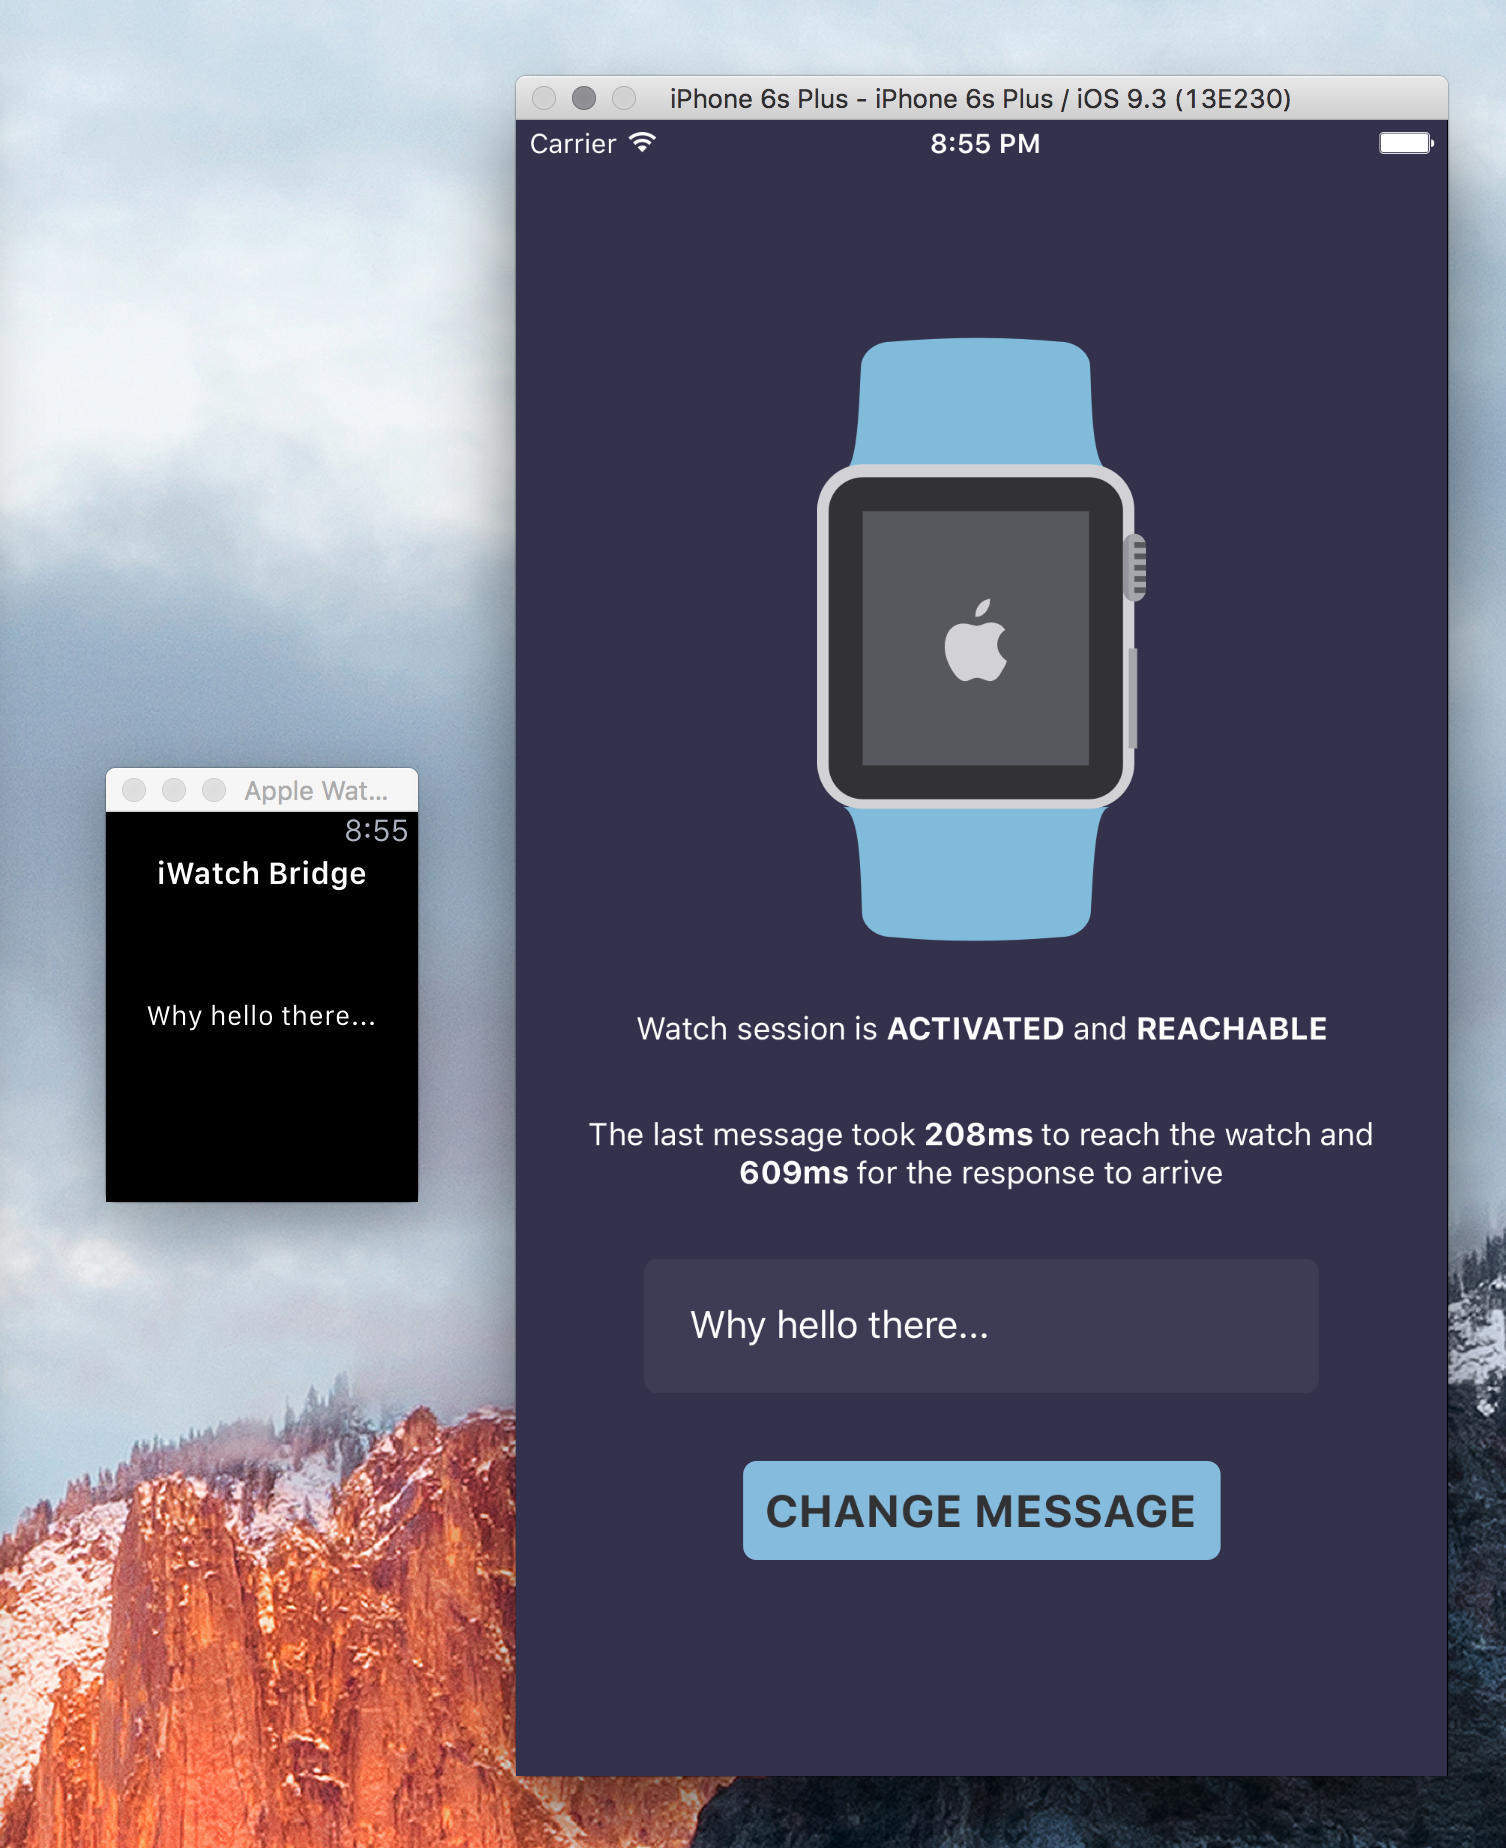
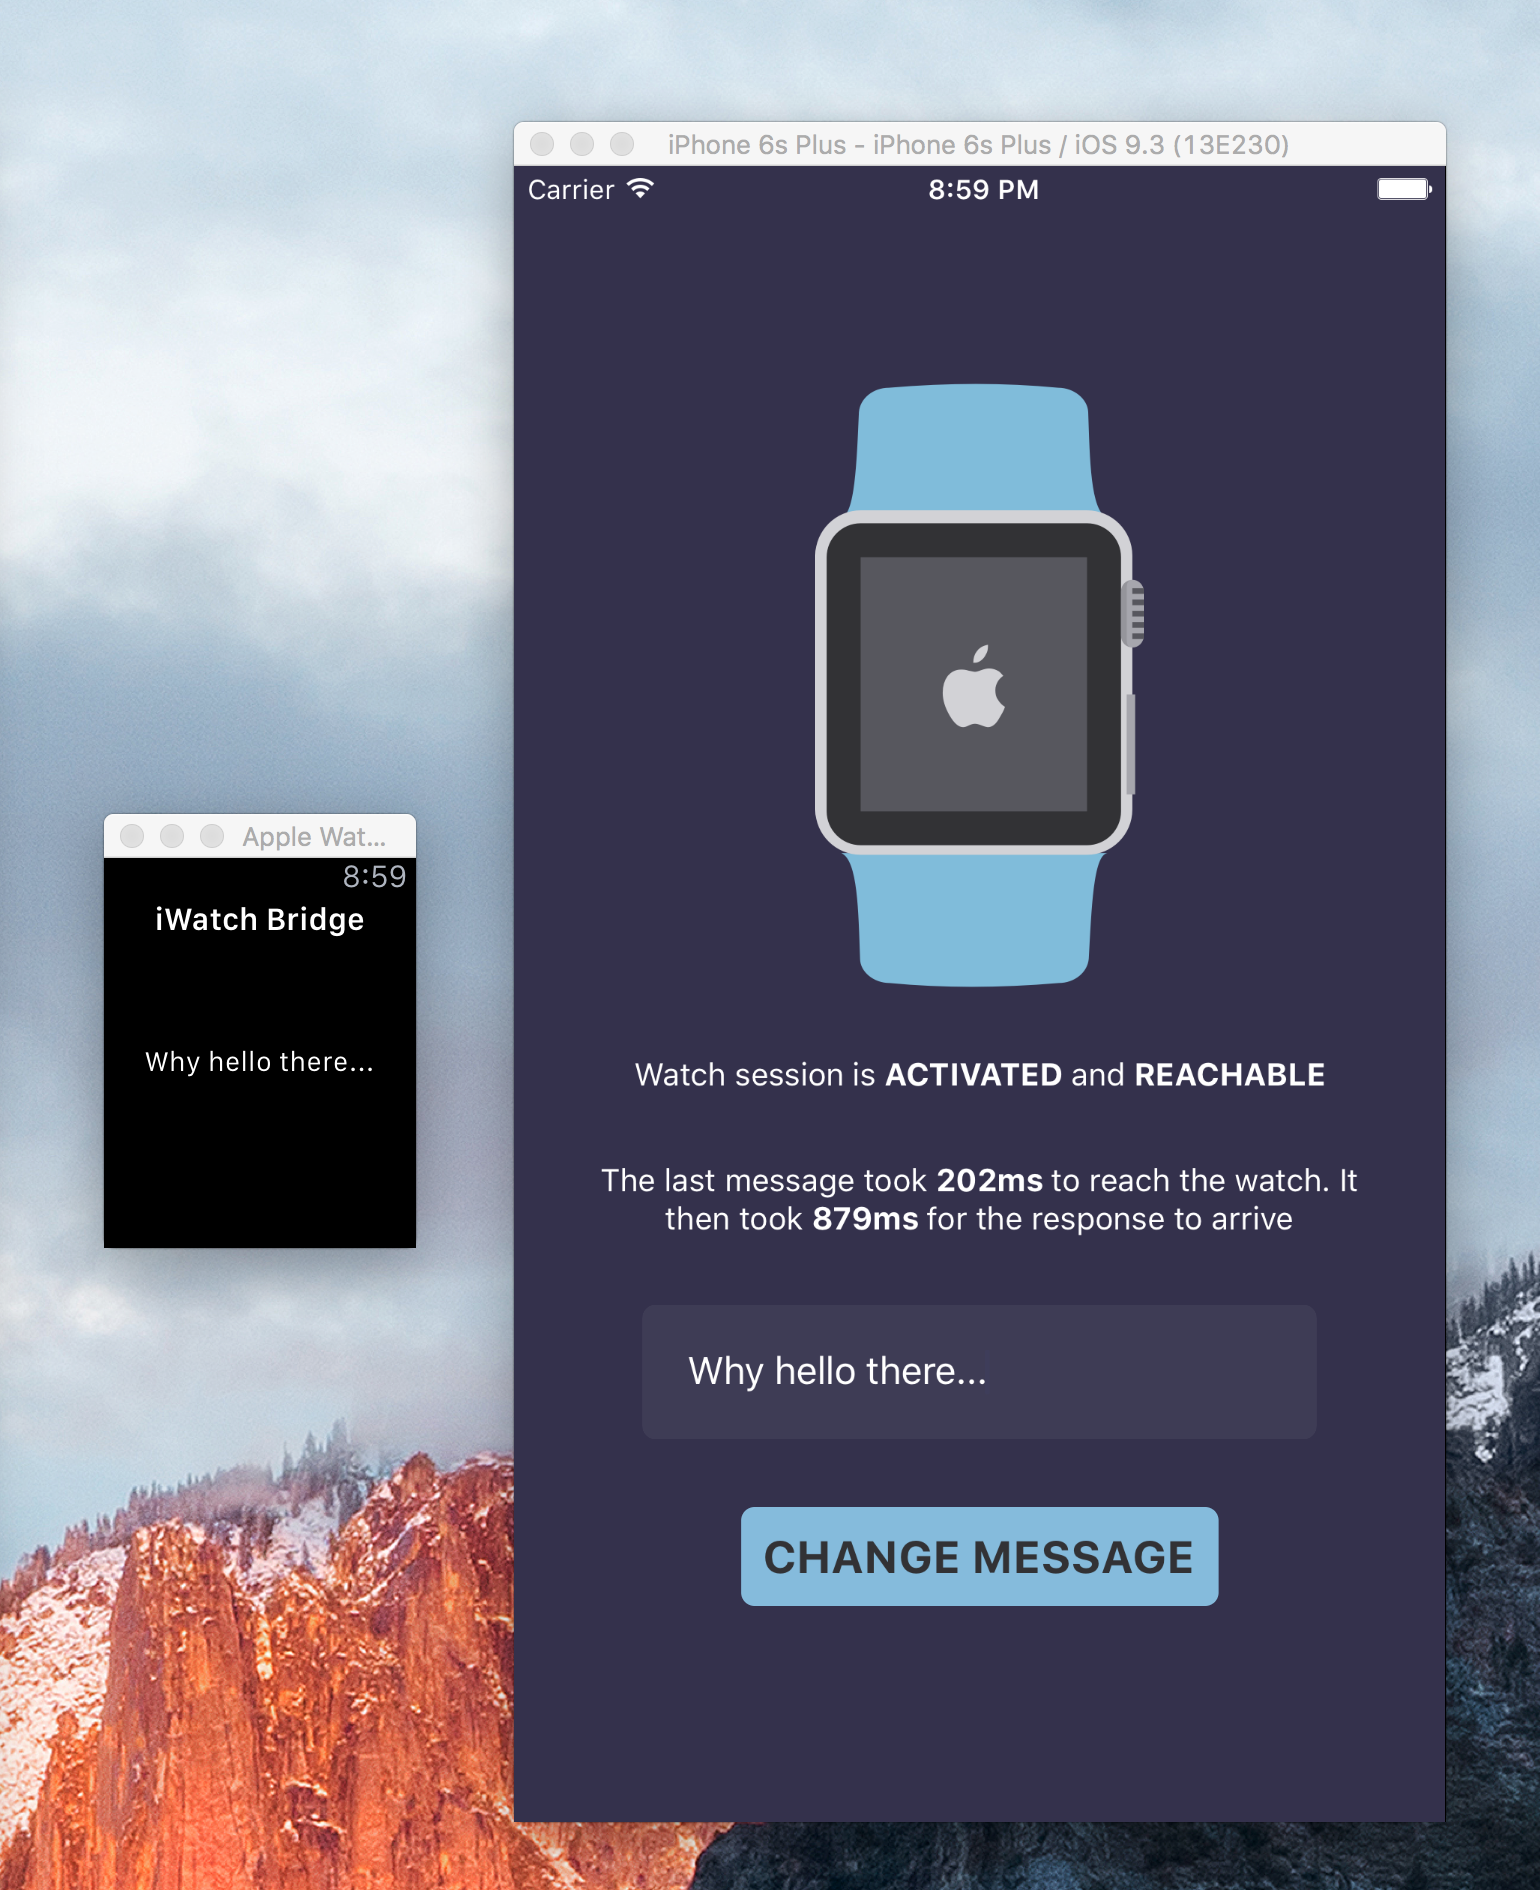
keyboard hide/show events working

diff --git a/index.ios.js b/index.ios.js
@@ -15,7 +15,7 @@ import React, {
   Dimensions,
   Image,
   LayoutAnimation,
-  NativeAppEventEmitter
+  DeviceEventEmitter
 } from 'react-native'
 
 import * as watchBridge from './src/WatchBridge.js'
@@ -32,25 +32,26 @@ class buff extends Component {
       messages:   [],
       reachable:  false,
       loading:    false,
+      text:       '',
       watchState: watchBridge.WatchState.Inactive
     }
   }
 
   keyboardWillHide () {
-    this.keyboardLayout()
+    this.configureNextAnimation()
     this.setState({spacerStyle: {height: 0}})
   }
 
   keyboardWillShow (e) {
     const keyboardHeight = e.endCoordinates.height
-    this.keyboardLayout()
+    this.configureNextAnimation()
     this.setState({spacerStyle: {height: keyboardHeight}})
   }
 
   listenToKeyboard () {
     const subscriptions                = [
-      NativeAppEventEmitter.addListener(EVENT_KEYBOARD_SHOW, ::this.keyboardWillShow),
-      NativeAppEventEmitter.addListener(EVENT_KEYBOARD_HIDE, ::this.keyboardWillHide)
+      DeviceEventEmitter.addListener(EVENT_KEYBOARD_SHOW, ::this.keyboardWillShow),
+      DeviceEventEmitter.addListener(EVENT_KEYBOARD_HIDE, ::this.keyboardWillHide)
     ]
     this.unsubscribeFromKeyboardEvents = () => subscriptions.forEach(fn => fn())
   }
@@ -73,22 +74,24 @@ class buff extends Component {
   }
 
   sendMessage () {
-    const timestamp = new Date().getTime()
-    const text      = this.state.text
-    this.configureNextAnimation()
-    this.setState({loading: true, timeTakenToReachWatch: null, timeTakenToReply: null})
-    watchBridge.sendMessage({text, timestamp}, (err, resp) => {
-      if (!err) {
-        console.log('response received', resp)
-        const timeTakenToReachWatch = resp.elapsed
-        const timeTakenToReply      = new Date().getTime() - parseInt(resp.timestamp)
-        this.configureNextAnimation()
-        this.setState({timeTakenToReachWatch, timeTakenToReply, loading: false})
-      }
-      else {
-        console.error('error sending message to watch', err)
-      }
-    })
+    const text = this.state.text
+    if (text.trim().length) {
+      const timestamp = new Date().getTime()
+      this.configureNextAnimation()
+      this.setState({loading: true, timeTakenToReachWatch: null, timeTakenToReply: null})
+      watchBridge.sendMessage({text, timestamp}, (err, resp) => {
+        if (!err) {
+          console.log('response received', resp)
+          const timeTakenToReachWatch = resp.elapsed
+          const timeTakenToReply      = new Date().getTime() - parseInt(resp.timestamp)
+          this.configureNextAnimation()
+          this.setState({timeTakenToReachWatch, timeTakenToReply, loading: false})
+        }
+        else {
+          console.error('error sending message to watch', err)
+        }
+      })
+    }
   }
 
   receiveWatchReachability (err, reachable) {
@@ -122,15 +125,18 @@ class buff extends Component {
           style={{width: 146, height: 269, marginBottom: ROW_MARGIN}}
           source={{uri: 'Watch'}}
         />
-        <Text style={styles.reachability}>
-          Watch session is <Text style={styles.boldText}>{this.state.watchState.toUpperCase()}</Text> and <Text
-          style={styles.boldText}>{this.state.reachable ? 'REACHABLE' : 'UNREACHABLE'}</Text>
-        </Text>
-        {hasResponse ? <Text style={styles.reachability}>
-          The last message took <Text style={styles.boldText}>{timeTakenToReachWatch + 'ms '}</Text>
-          to reach the watch and <Text style={styles.boldText}>{timeTakenToReply + 'ms '}</Text>
-          for the response to arrive
-        </Text> : null}
+        <View>
+          <Text style={styles.reachability}>
+            Watch session is <Text style={styles.boldText}>{this.state.watchState.toUpperCase()}</Text> and <Text
+            style={styles.boldText}>{this.state.reachable ? 'REACHABLE' : 'UNREACHABLE'}</Text>
+          </Text>
+          {hasResponse ? <Text style={styles.reachability}>
+            The last message took <Text style={styles.boldText}>{timeTakenToReachWatch + 'ms '}</Text>
+            to reach the watch. It then took <Text style={styles.boldText}>{timeTakenToReply + 'ms '}</Text>
+            for the response to arrive
+          </Text> : null}
+        </View>
+
         <TextInput
           style={styles.textInput}
           ref={e => this.textField = e}
@@ -141,12 +147,14 @@ class buff extends Component {
         </TextInput>
         {!this.state.loading ? <TouchableOpacity
           style={styles.button}
+          disabled={!this.state.text.trim().length}
           onPress={::this.sendMessage}
         >
           <Text style={styles.buttonText}>
             CHANGE MESSAGE
           </Text>
         </TouchableOpacity> : <Spinner type="Bounce" color={orange} size={44}/>}
+        <View style={this.state.spacerStyle}/>
       </View>
     )
   }
